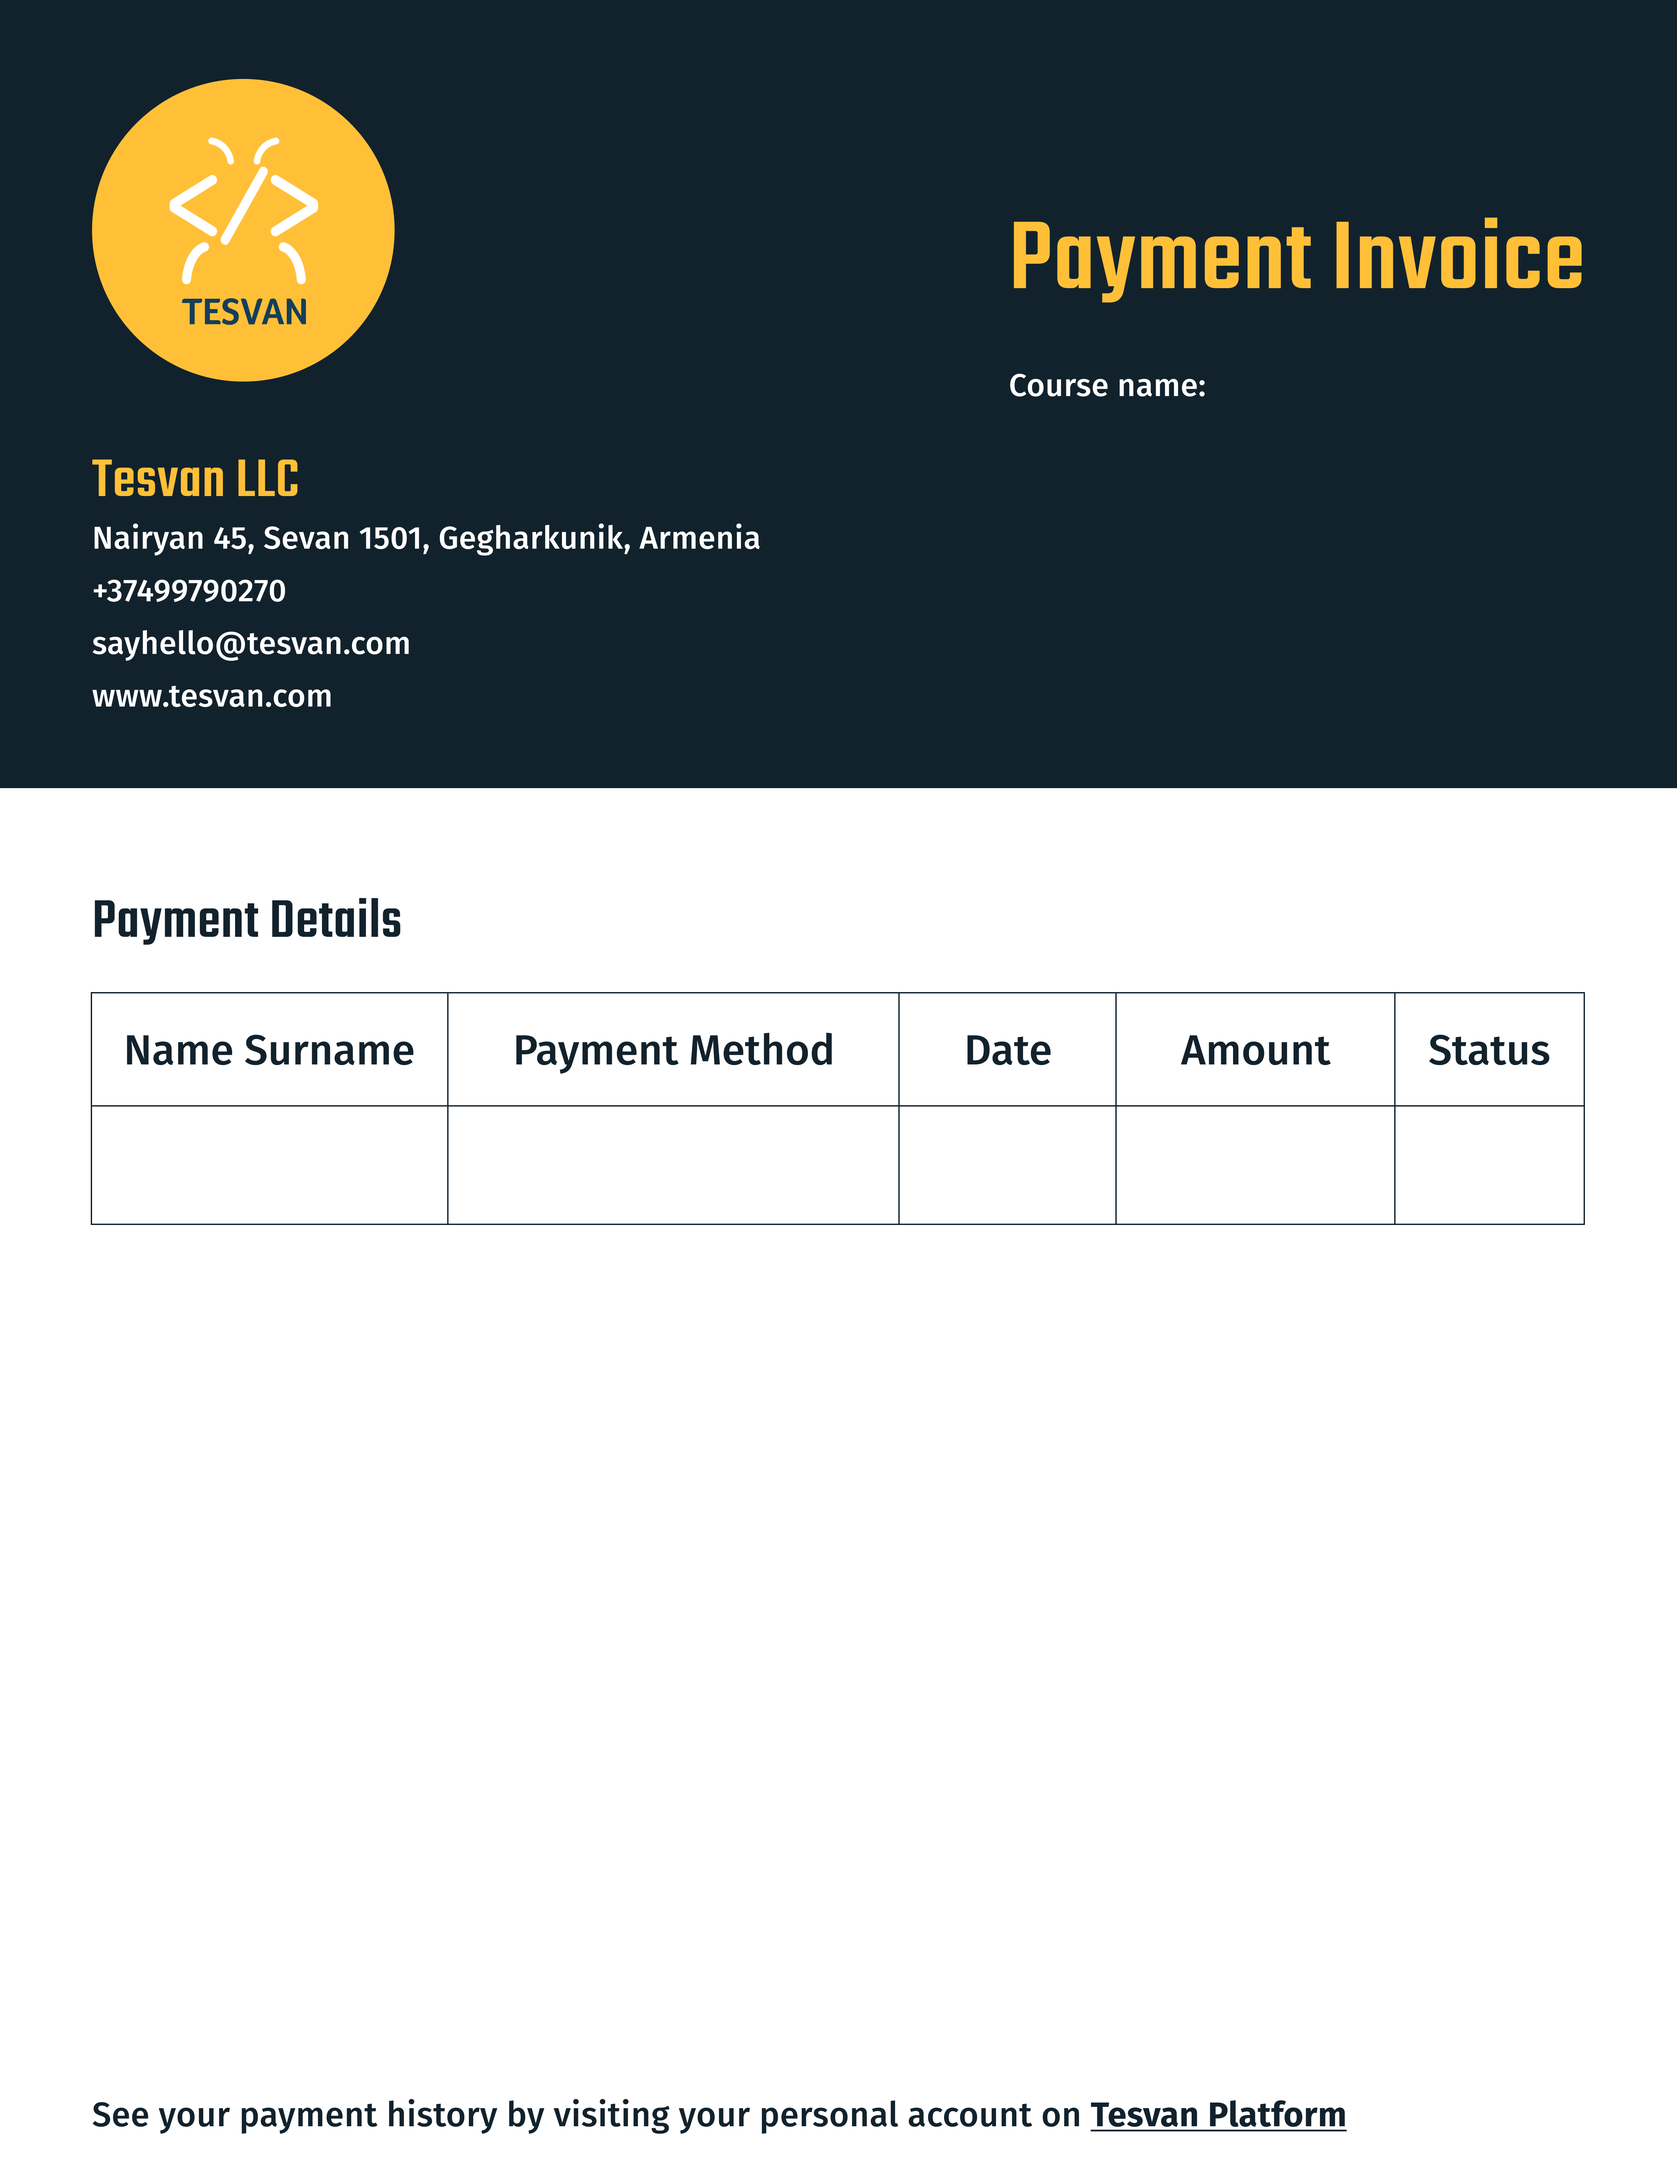
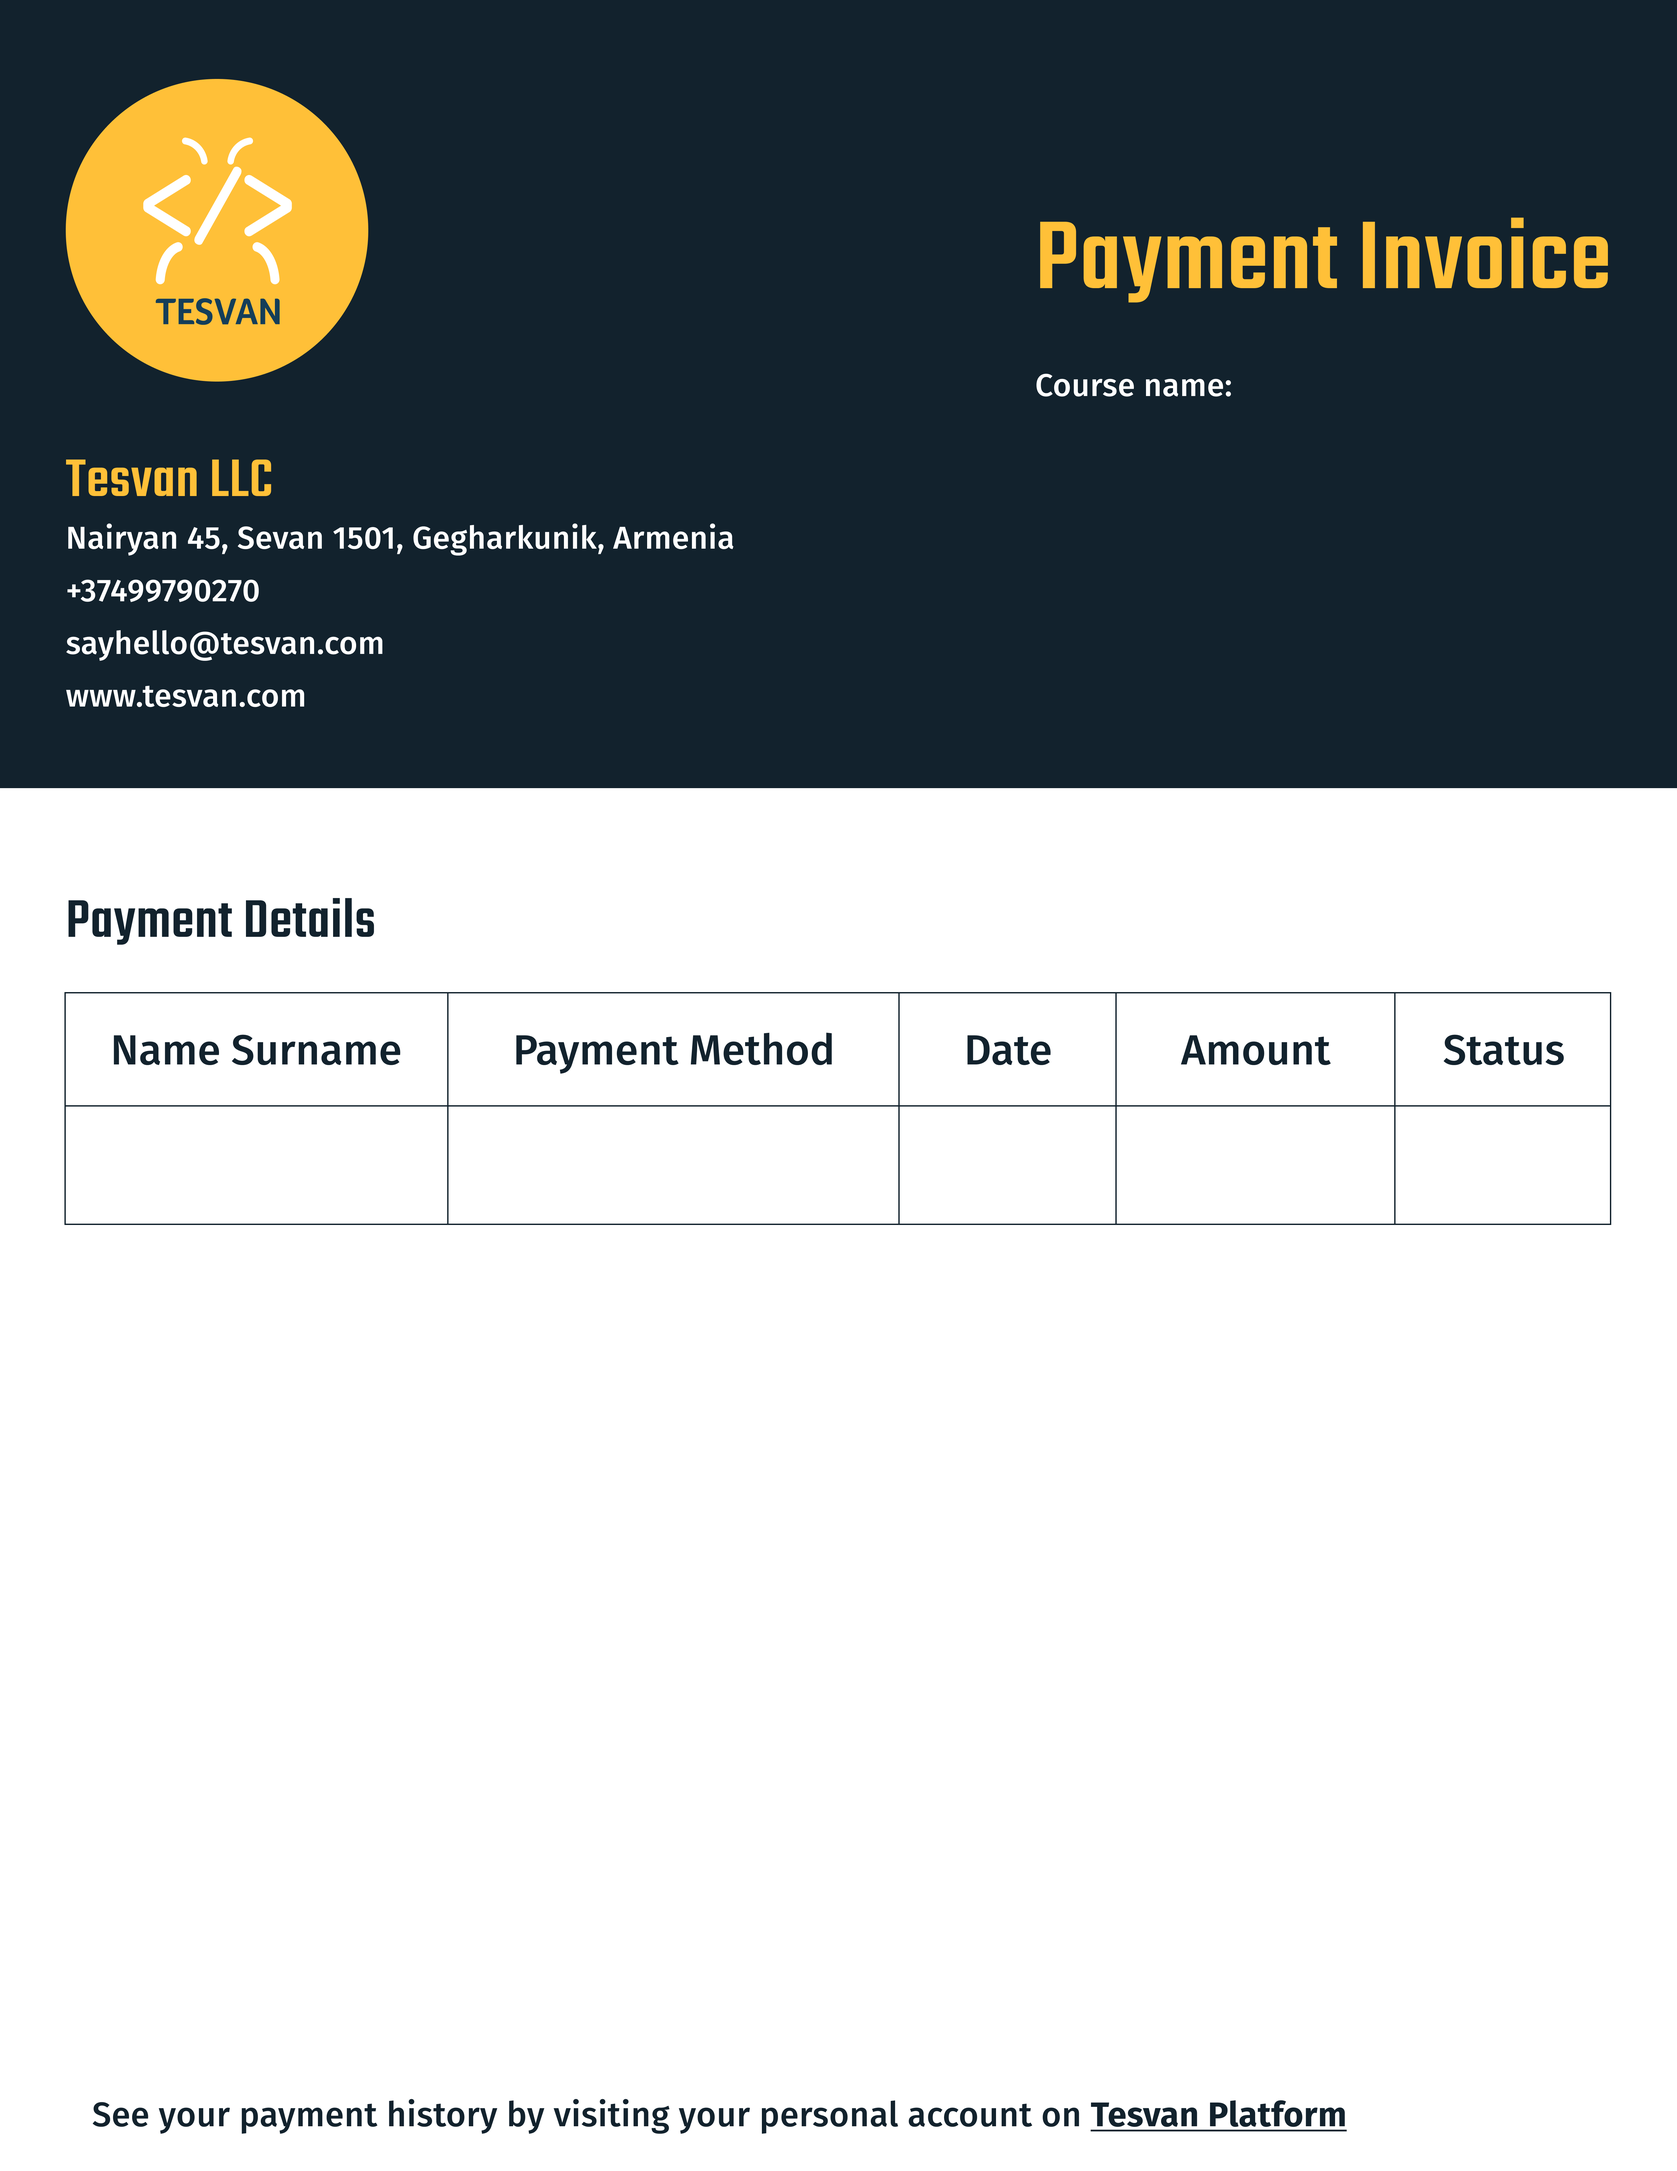
added color

diff --git a/controlers/PaymentController.js b/controlers/PaymentController.js
@@ -348,7 +348,7 @@ const paymentIdram = async (req, res) => {
         };
         payment.status = 'Payment is declined';
         await payment.save();
-        res.send('Error');
+        return res.send('Error');
       } else {
         const amount = request.EDP_AMOUNT;
         if (amount > 0) {
@@ -922,19 +922,25 @@ const downloadInvoice = async (req, res) => {
     // Add content to the PDF (example text, payment details, etc.)
 
 
-    doc.fillColor('#FFC038').fontSize(30).text(type, 300.5, 30, { align: 'left' });
-    doc.fillColor('#FFC038').fontSize(12).text(courseName, 365, 105.5, { align: 'left' });
+    doc.fillColor('#FFC038').fontSize(30).text(type, 308, 30, { align: 'left' });
+    doc.fillColor('#FFC038').fontSize(11).text(courseName, 372, 106, { align: 'left' });
     if (fs.existsSync(firaSans)) {
       doc.font(firaSans);
     } else {
       console.error('Custom bold font file does not exist, using Helvetica-Bold');
       doc.font('Helvetica-Bold');
     }
-    doc.fillColor('#12222D').fontSize(12).text(userName, 38, 335, { align: 'centre' });
+    doc.fillColor('#12222D').fontSize(12).text(userName, 33, 335, { align: 'centre' });
     doc.text(paymentMethod, 185, 335, { align: 'left' });
     doc.text(formattedDate, 280, 335, { align: 'left' });
     doc.text(payment.amount, 355, 335, { align: 'left' });
-    doc.text(status, 426, 335, { align: 'left' });
+    if(status === "Success"){
+      doc.fillColor('green')
+      doc.text(status, 426, 335, { align: 'left' });
+    } else {
+      doc.fillColor('red')
+      doc.text(status, 435, 335, { align: 'left' });
+    }
 
     // Finalize the PDF and send it
     doc.end();
